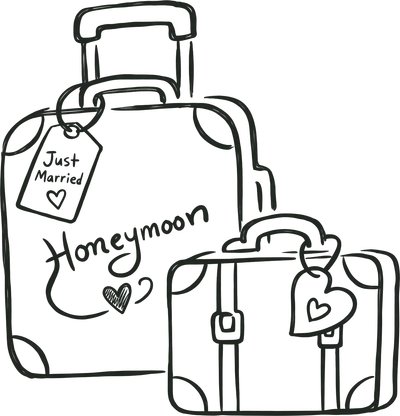
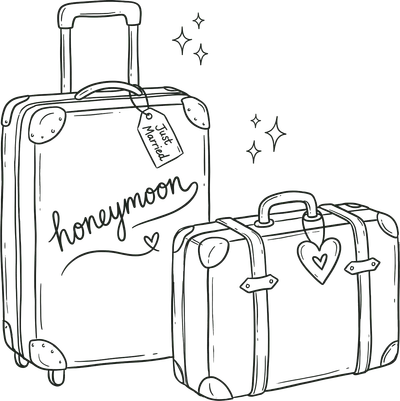
Swap the Farewell luggage for the cleaner redraw

Changed region(s): [[0.0, 0.0, 1.0, 1.0], [0.15, 0.7481, 0.27, 0.7781]]

diff --git a/lib/italy-art.ts b/lib/italy-art.ts
@@ -33,8 +33,8 @@ export const MOTIF_ART: Partial<Record<MotifName, ArtImage>> = {
   /* Our own drawing (public/italy/art/pizzaparty.png), put through the same
      knock-out and ink tint as the others. */
   cheers: { src: "/italy/art/cheers.webp", width: 300, height: 293 },
-  /* farewell.jpeg, same checkerboard and threshold as the rings. */
-  luggage: { src: "/italy/art/luggage.webp", width: 400, height: 416 },
+  /* luggage.jpeg, on plain cream paper: threshold 24. */
+  luggage: { src: "/italy/art/luggage.webp", width: 400, height: 401 },
   /* doves.png, drawn on beige paper: threshold 62 clears the paper grain
      and the corner sparkle, which is lighter than the paper. */
   doves: { src: "/italy/art/doves.webp", width: 600, height: 459 },

diff --git a/public/italy/CREDITS.md b/public/italy/CREDITS.md
@@ -5,7 +5,7 @@ All icons are processed by `scripts/process-illustrations.mjs`, which crops them
 | File | Source | License |
 |---|---|---|
 | art/vespa.webp, art/olive.webp, art/pizza.webp, art/gelato.webp, art/espresso.webp | "Italy monochrome doodles cartoon elements collection". https://www.vecteezy.com/vector-art/57512309-italy-monochrome-doodles-cartoon-elements-collection | Vecteezy Free License. Attribution required. |
-| art/rings.webp, art/cheers.webp, art/luggage.webp, art/doves.webp | Our own drawings (art/wedding_rings.jpeg, art/pizzaparty.png, art/farewell.jpeg, art/doves.png), put through the same knock-out and tint by hand rather than by the script. | Ours. |
+| art/rings.webp, art/cheers.webp, art/luggage.webp, art/doves.webp | Our own drawings (art/wedding_rings.jpeg, art/pizzaparty.png, art/luggage.jpeg, art/doves.png), put through the same knock-out and tint by hand rather than by the script. | Ours. |
 | art/wineglass.webp | Same Italy doodles pack as above (57512309). | Vecteezy Free License. Attribution required. |
 | art/coupe.webp, art/flowers.webp | "Vintage monochrome elements collection". https://www.vecteezy.com/vector-art/77893362 | Vecteezy Free License. Attribution required. |
 | art/boat.webp | "Summer monochrome doodles collection". https://www.vecteezy.com/vector-art/78680596 | Vecteezy Free License. Attribution required. |
